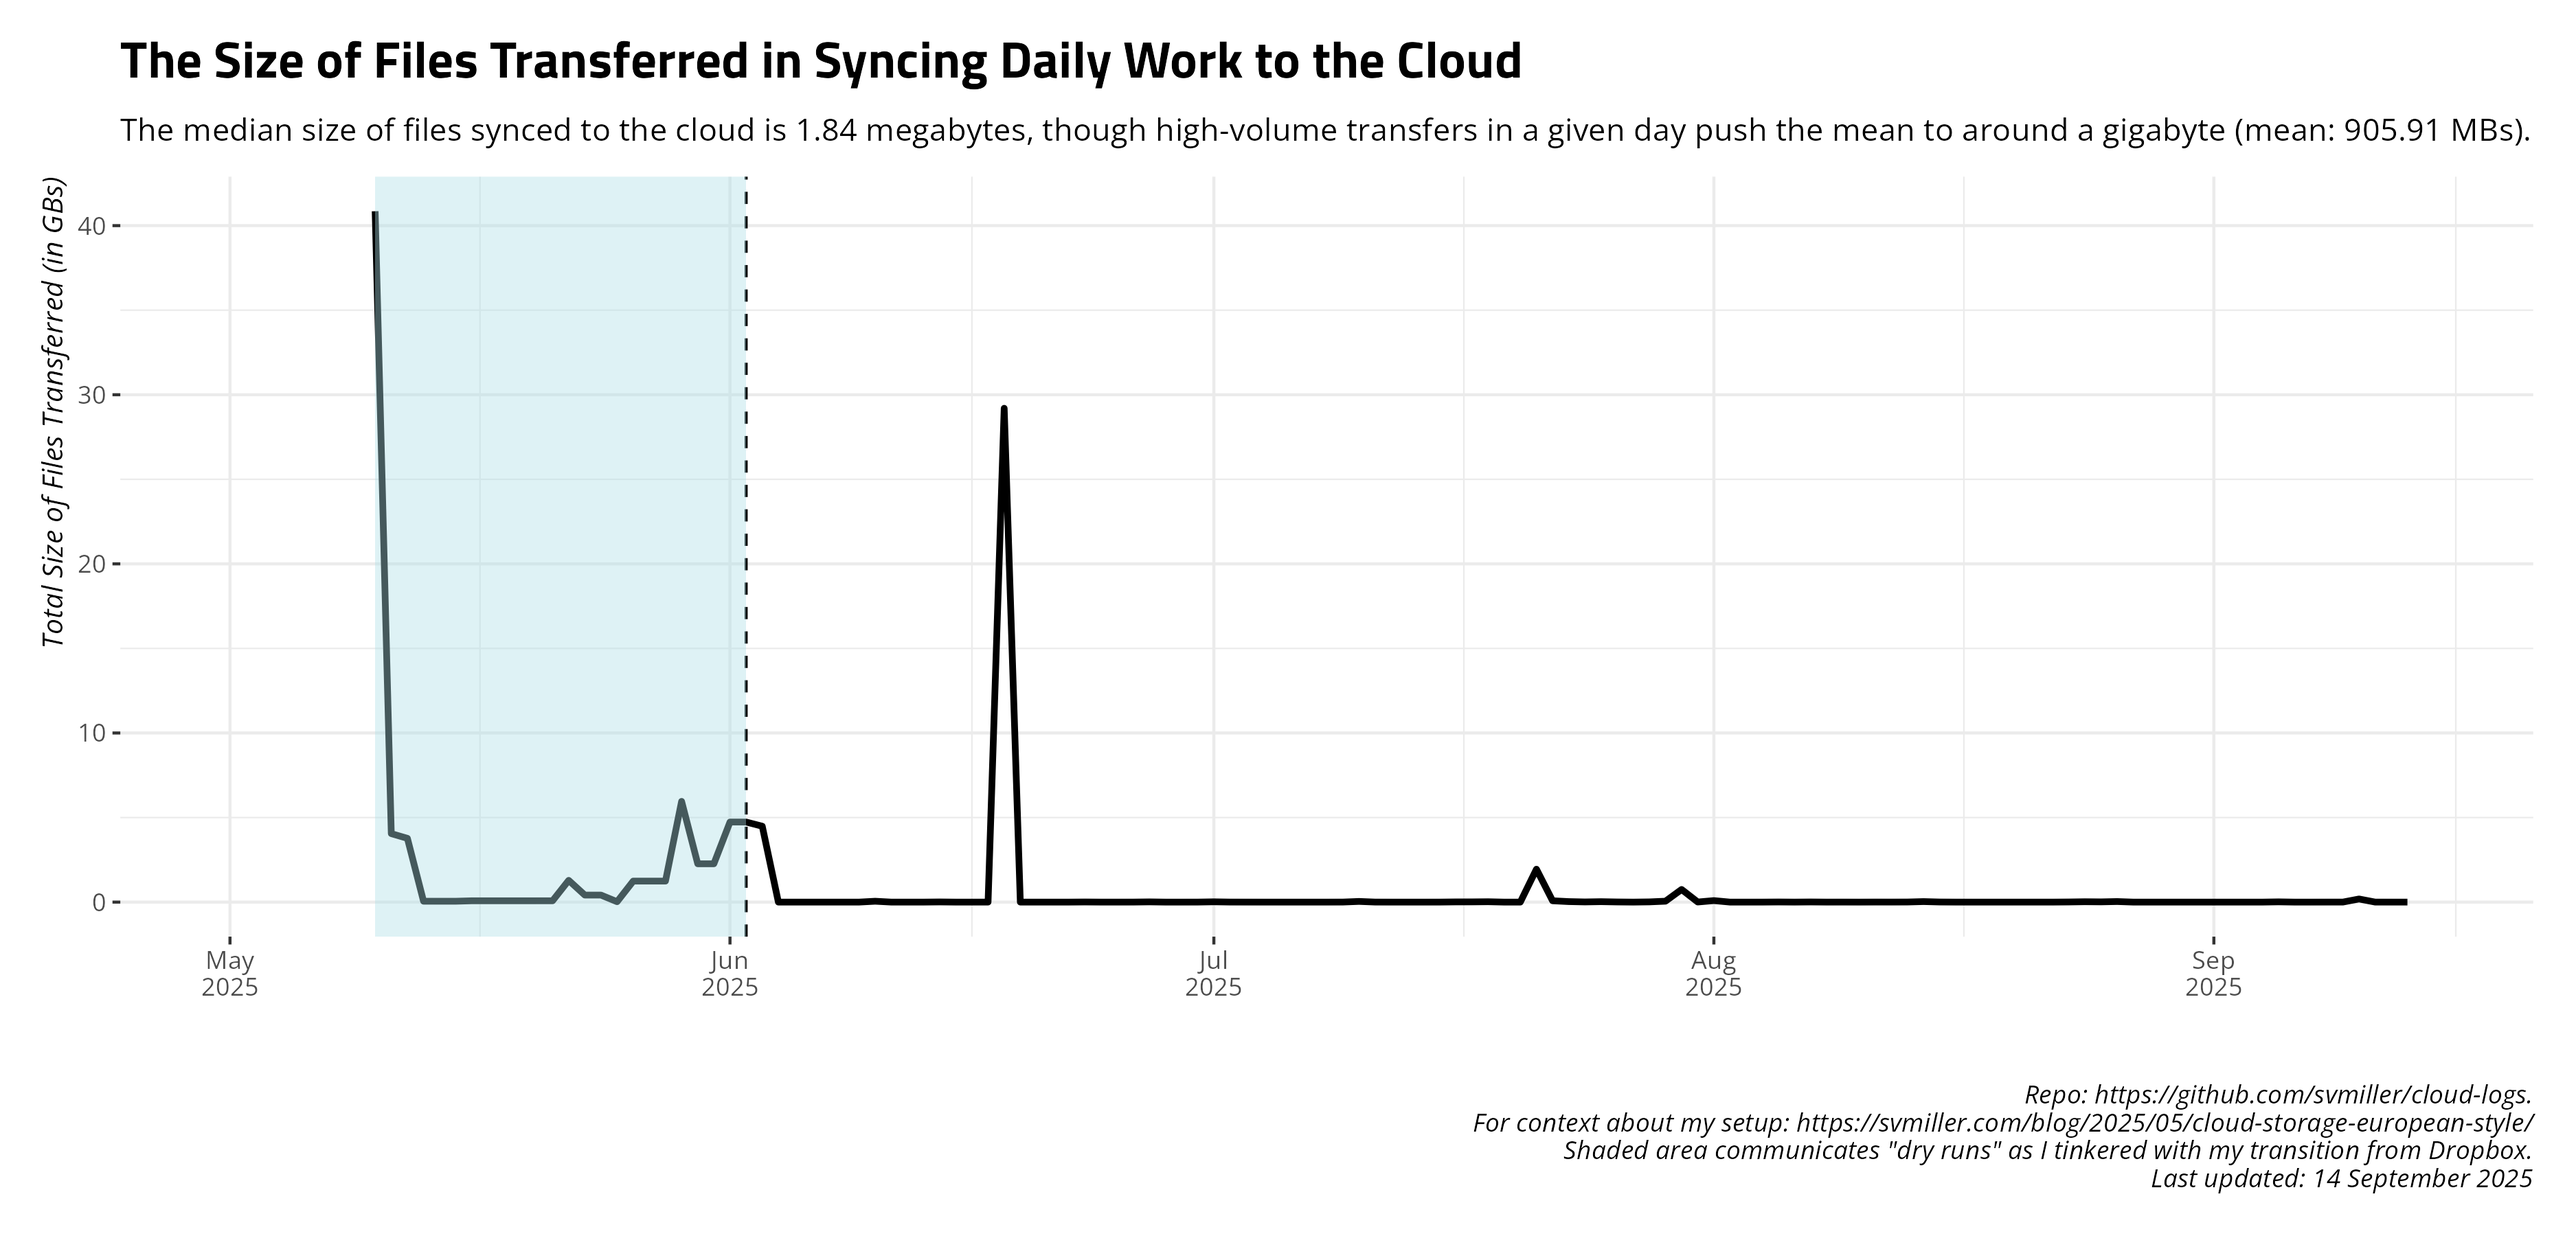
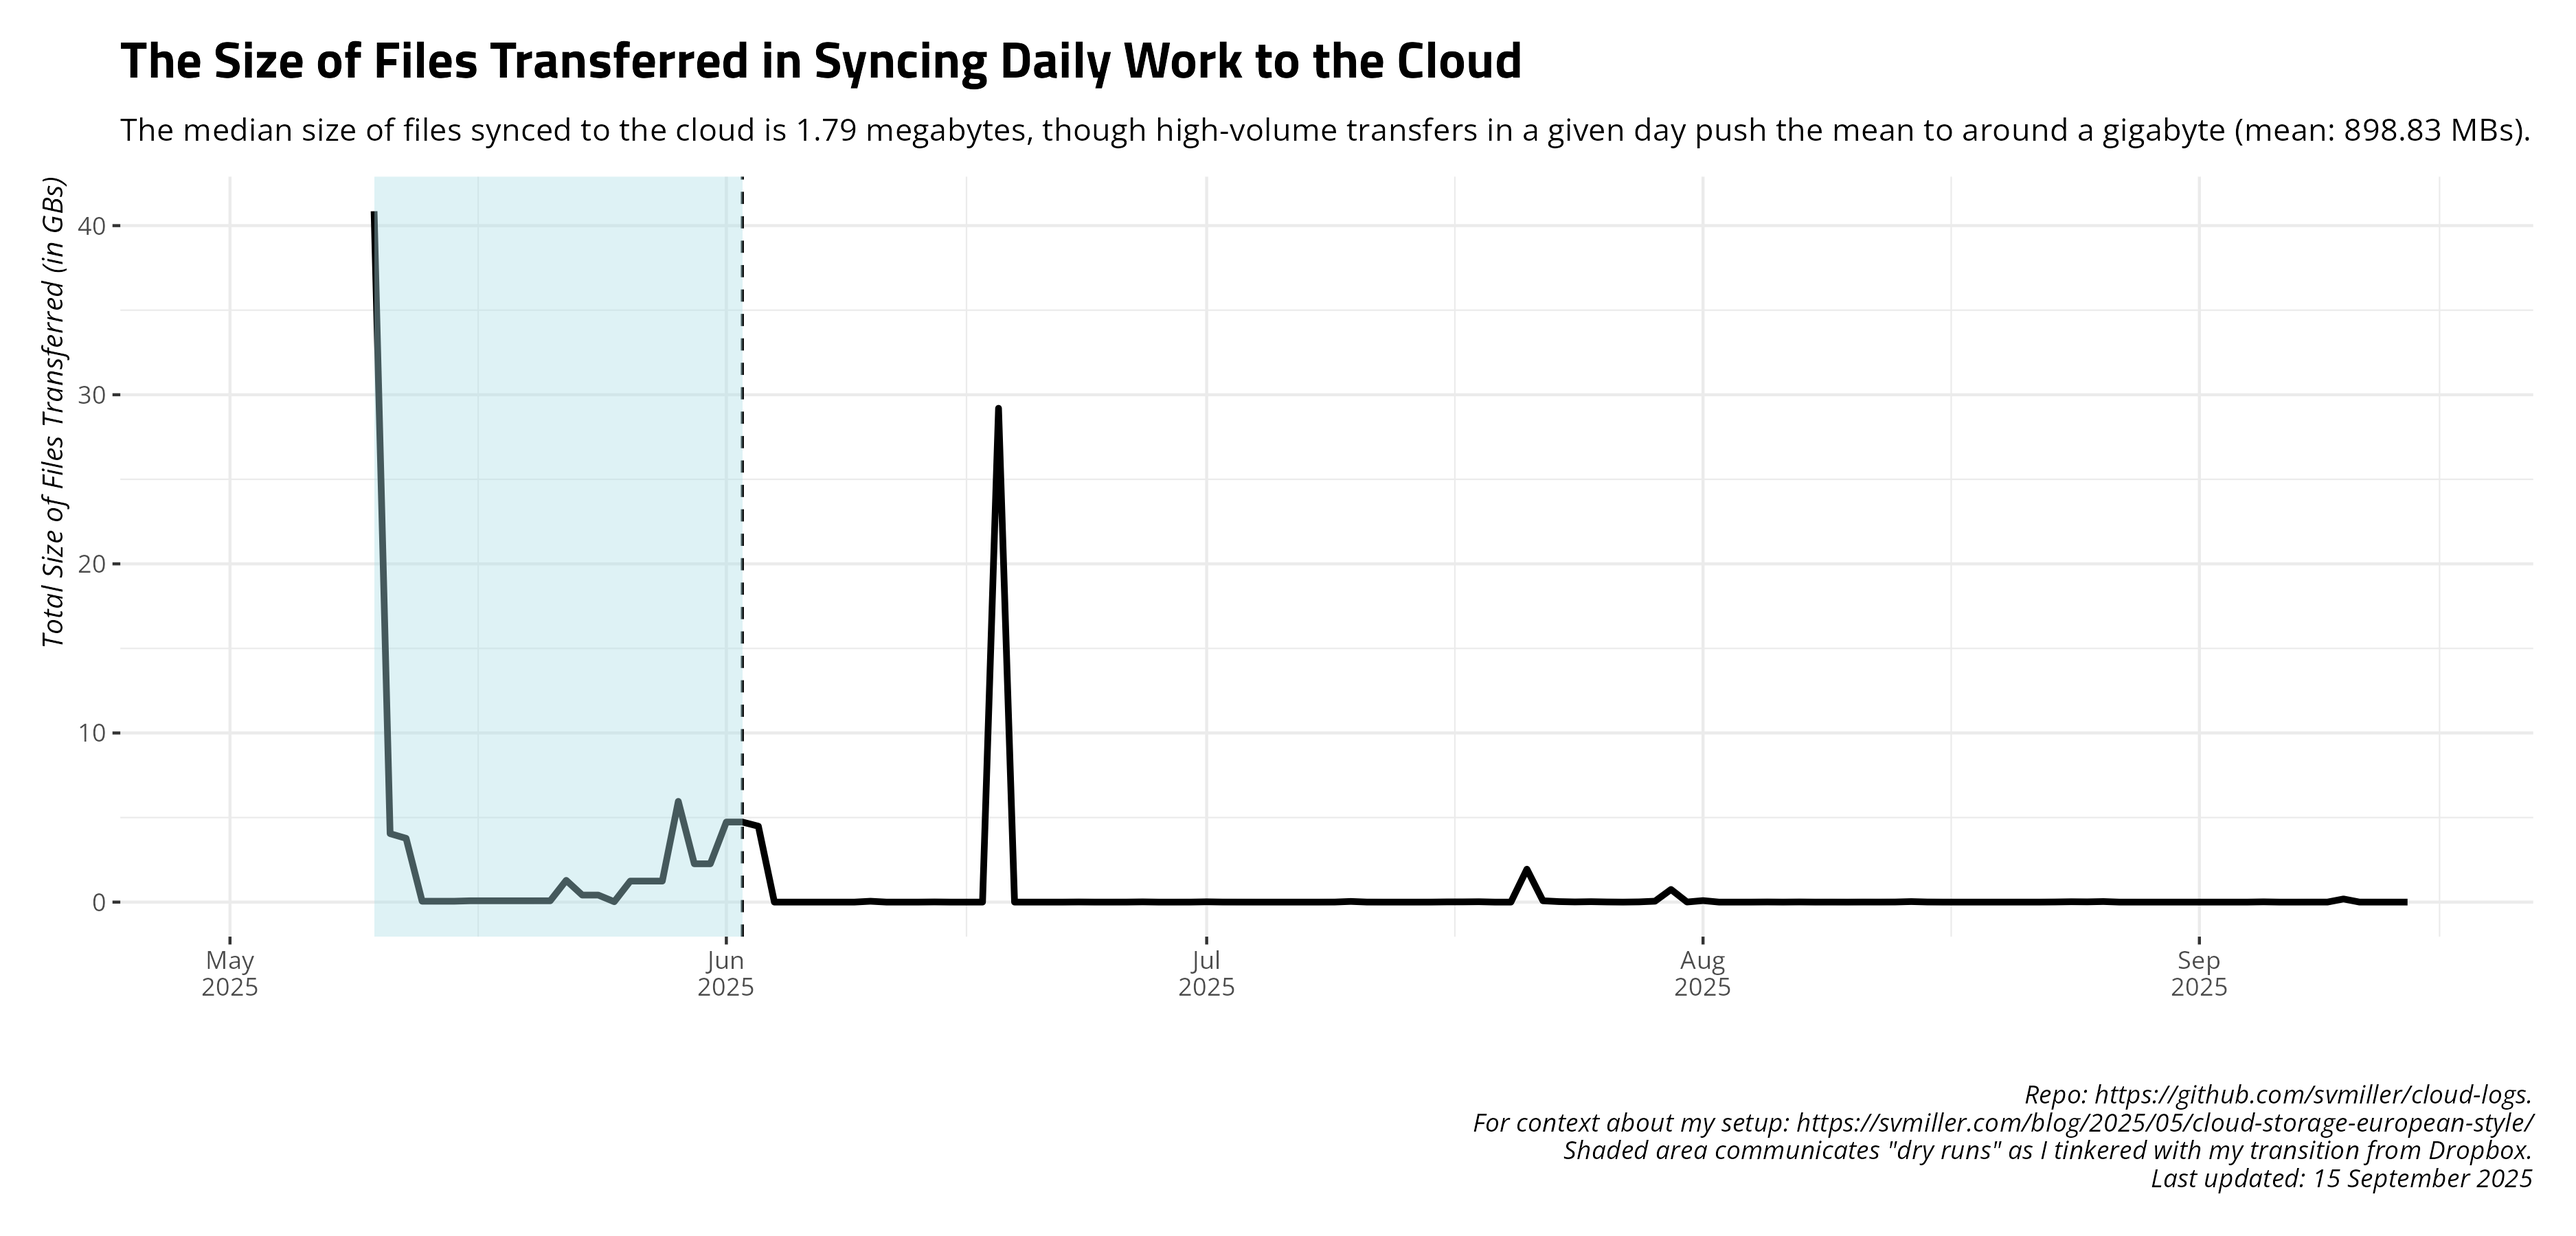
Date: 2025-09-15 09:00:13. Hi mom!

diff --git a/README.md b/README.md
@@ -27,17 +27,17 @@ and uploads to Github.
     #> # A tibble: 14 × 4
     #>    date       ftransfer stransfer   elapsed
     #>    <date>         <dbl> <chr>       <chr>  
-    #>  1 2025-08-31         0 <NA>        5m16.9s
-    #>  2 2025-09-01         0 <NA>        5m21.1s
-    #>  3 2025-09-02        40 153.396 KiB 13m1.5s
-    #>  4 2025-09-03         8 196.474 KiB 5m6.5s 
-    #>  5 2025-09-04         4 16.646 KiB  4m55.1s
-    #>  6 2025-09-05         1 14.804 MiB  5m22.4s
-    #>  7 2025-09-06        29 118.159 KiB 4m51.7s
-    #>  8 2025-09-07         0 <NA>        5m21.8s
-    #>  9 2025-09-08       119 1.400 MiB   4m12.4s
-    #> 10 2025-09-09        90 2.081 MiB   4m56.8s
-    #> 11 2025-09-10       224 188.623 MiB 5m14.5s
-    #> 12 2025-09-11       102 1.420 MiB   4m58.7s
-    #> 13 2025-09-12        40 513.224 KiB 4m53.9s
-    #> 14 2025-09-13        20 351.011 KiB 4m47.3s
+    #>  1 2025-09-01         0 <NA>        5m21.1s
+    #>  2 2025-09-02        40 153.396 KiB 13m1.5s
+    #>  3 2025-09-03         8 196.474 KiB 5m6.5s 
+    #>  4 2025-09-04         4 16.646 KiB  4m55.1s
+    #>  5 2025-09-05         1 14.804 MiB  5m22.4s
+    #>  6 2025-09-06        29 118.159 KiB 4m51.7s
+    #>  7 2025-09-07         0 <NA>        5m21.8s
+    #>  8 2025-09-08       119 1.400 MiB   4m12.4s
+    #>  9 2025-09-09        90 2.081 MiB   4m56.8s
+    #> 10 2025-09-10       224 188.623 MiB 5m14.5s
+    #> 11 2025-09-11       102 1.420 MiB   4m58.7s
+    #> 12 2025-09-12        40 513.224 KiB 4m53.9s
+    #> 13 2025-09-13        20 351.011 KiB 4m47.3s
+    #> 14 2025-09-14        11 124.986 KiB 5m19.2s
